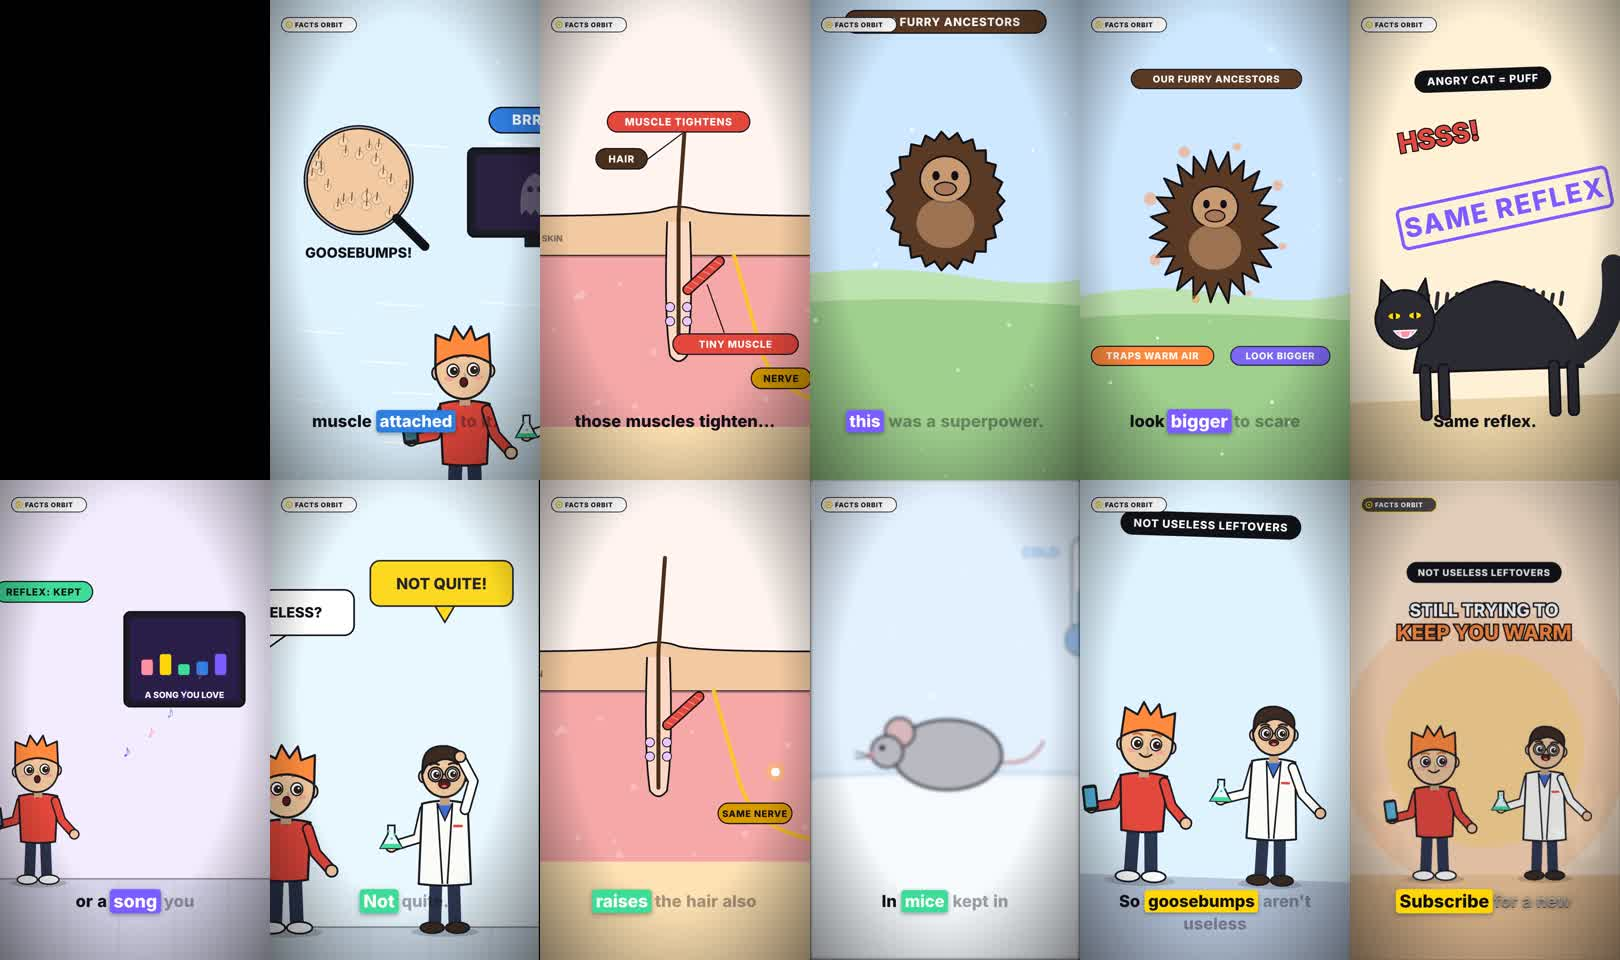
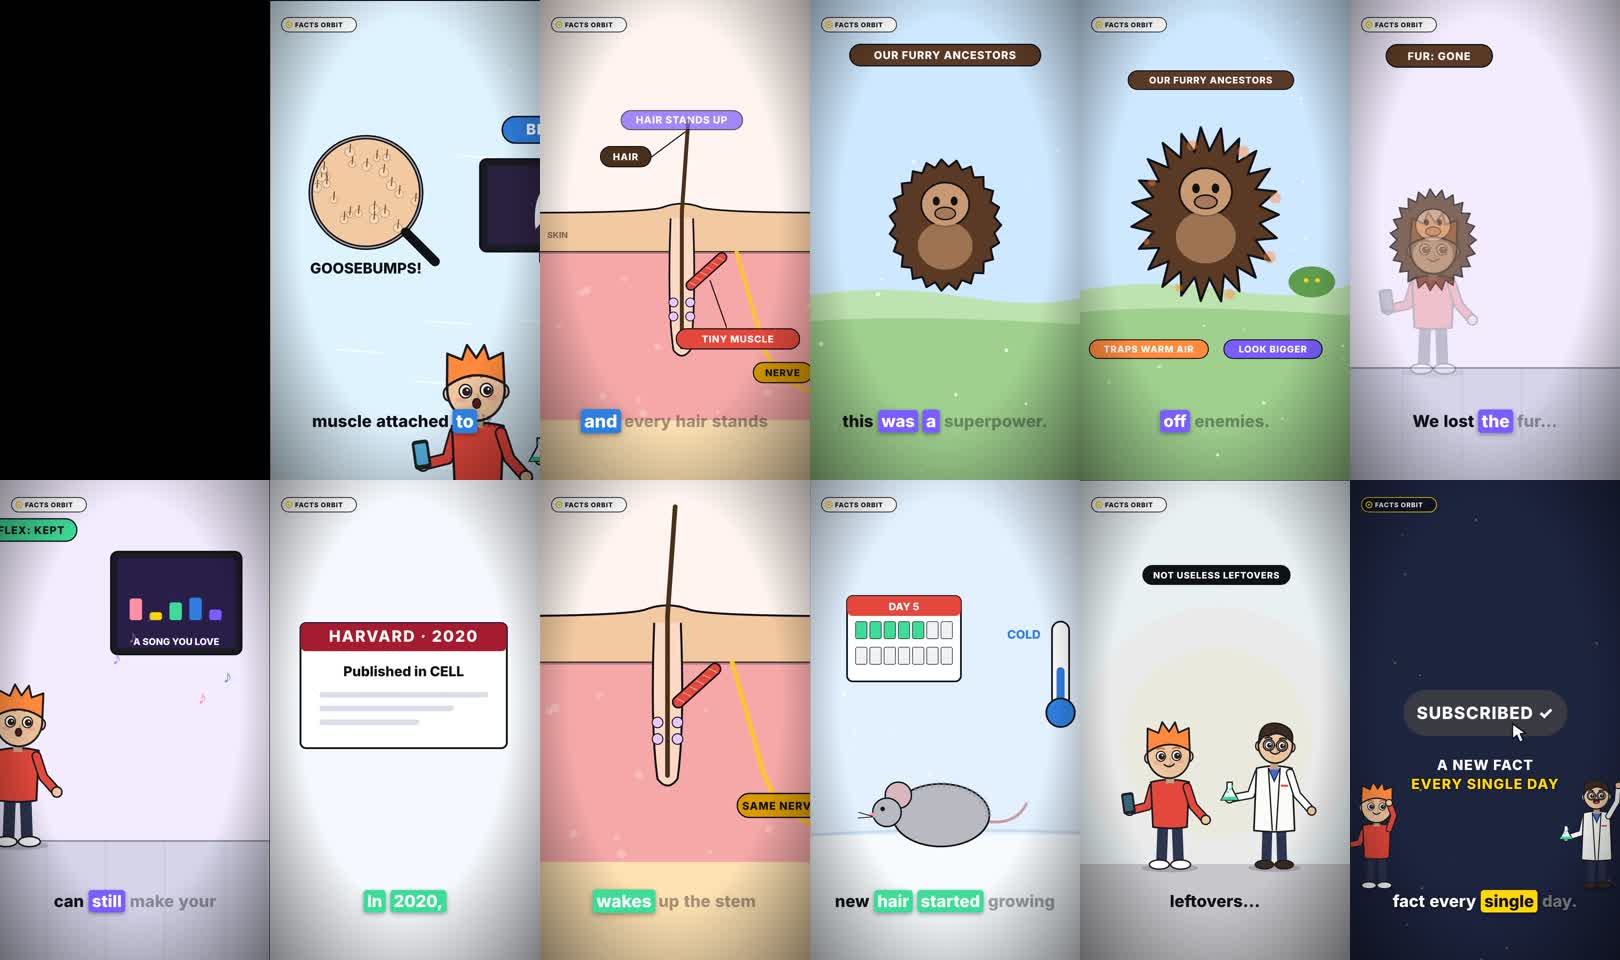
Nov 1-7 week rendered: final contact sheets, status
Claude-Session: https://claude.ai/code/session_01PC9EcwkToj898wWDRviNT9

diff --git a/AGENTS.md b/AGENTS.md
@@ -13,7 +13,7 @@ One video per day. End line of every video: *"Subscribe for a new fact every sin
 
 ## Current status (update this block after every video)
 - First video published Oct 31 (https://youtu.be/-mQPpige55M).
-- Nov 1–7 week: topics picked by demand research; 7 scripts written AND narrated by the agent (Kokoro am_adam) in `episodes/2026-11-0*/`. Films not built yet.
+- Nov 1–7 week: all 7 films BUILT and rendered (cast characters with their own Kokoro voices, Director camera + transitions, CC0 SFX, mastered -14 LUFS). Awaiting Uzair's review → upload via Postsiva → schedule daily 14:00 UTC (7 PM PKT).
 
 ## Next actions
 1. For each `episodes/2026-11-0*` folder: run engine/gen_words.py → build Film.tsx/entry.tsx (topic-built world, cover frame with big yellow keyword) → QA → send to Uzair.
